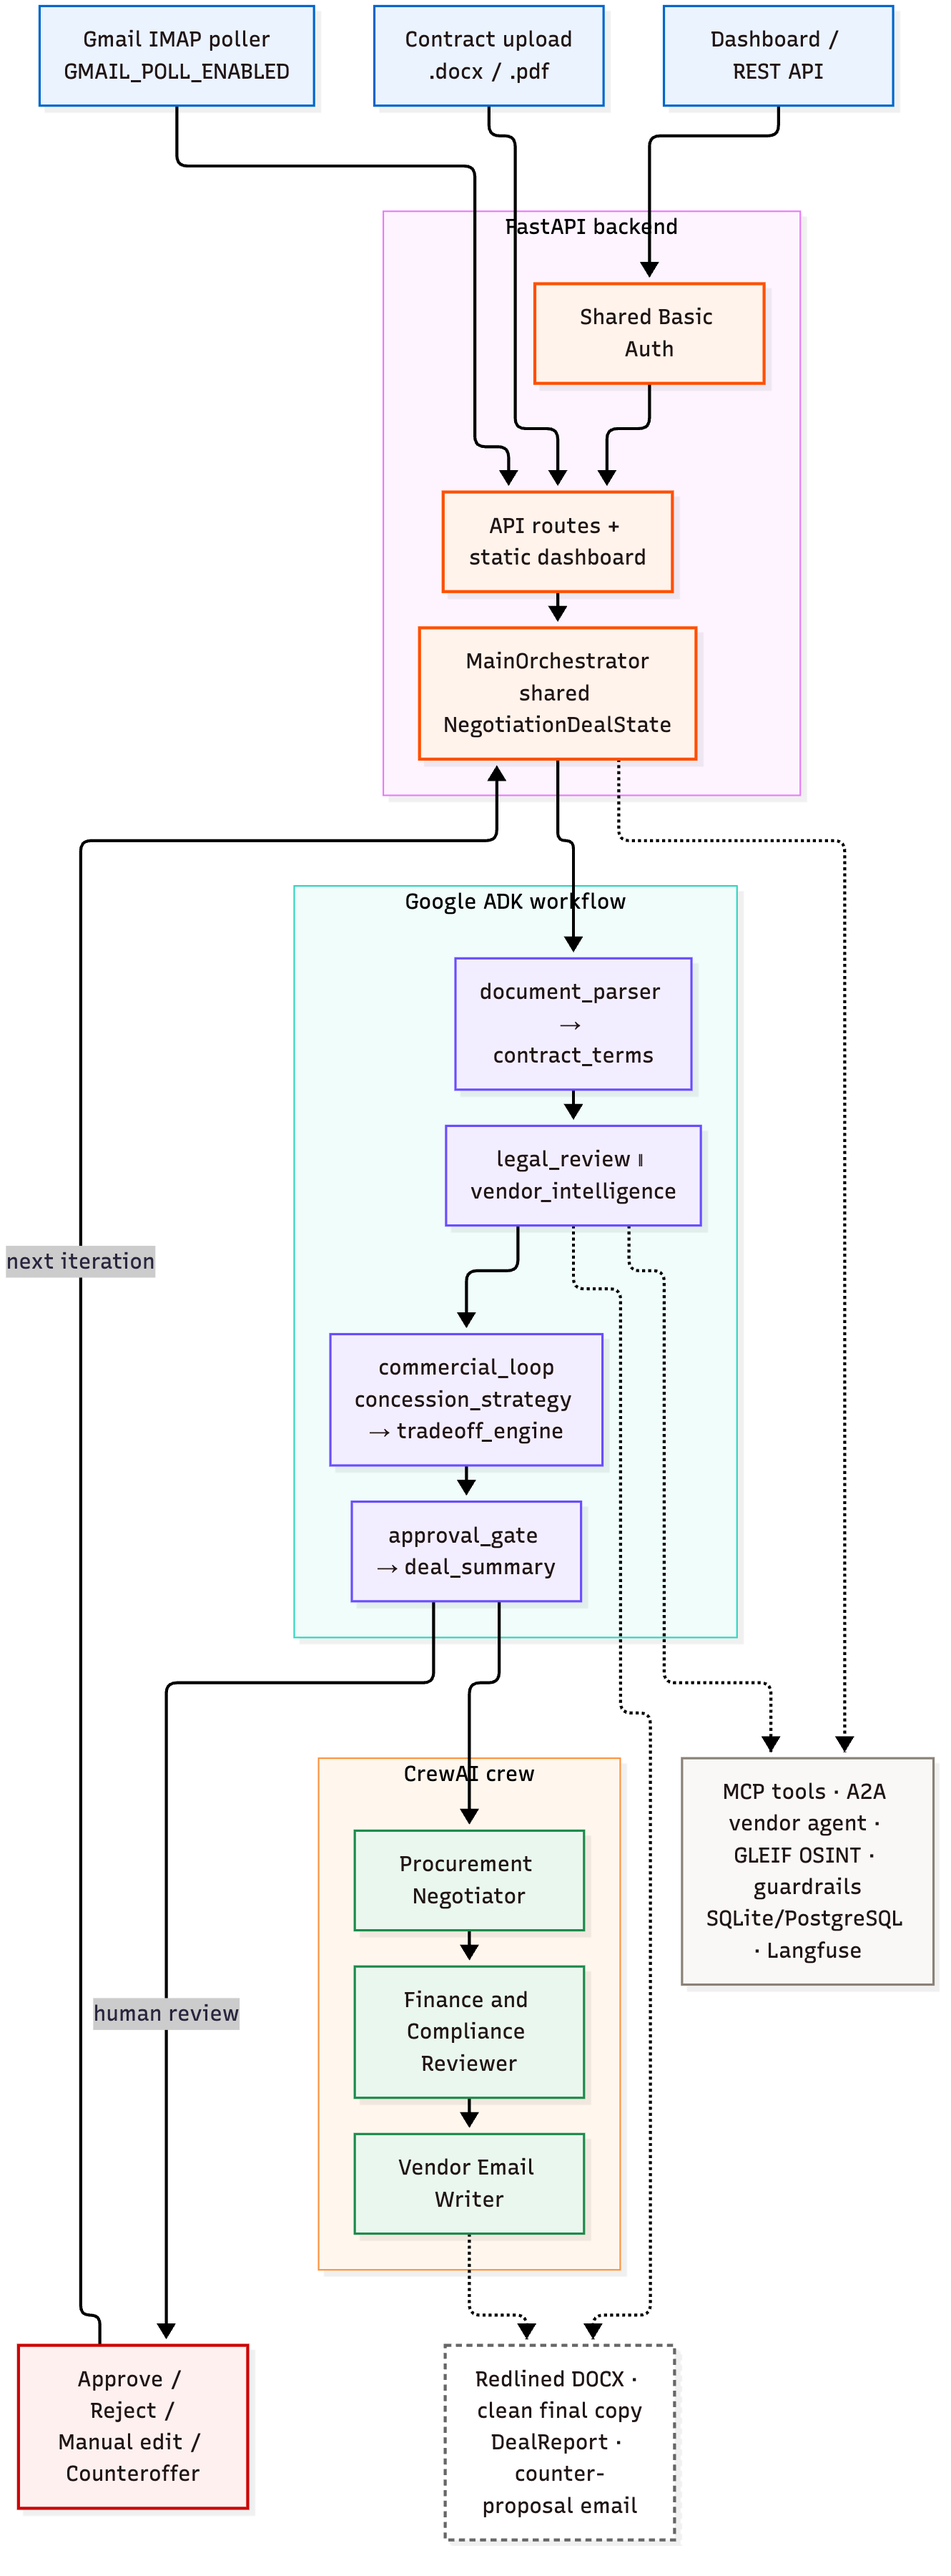
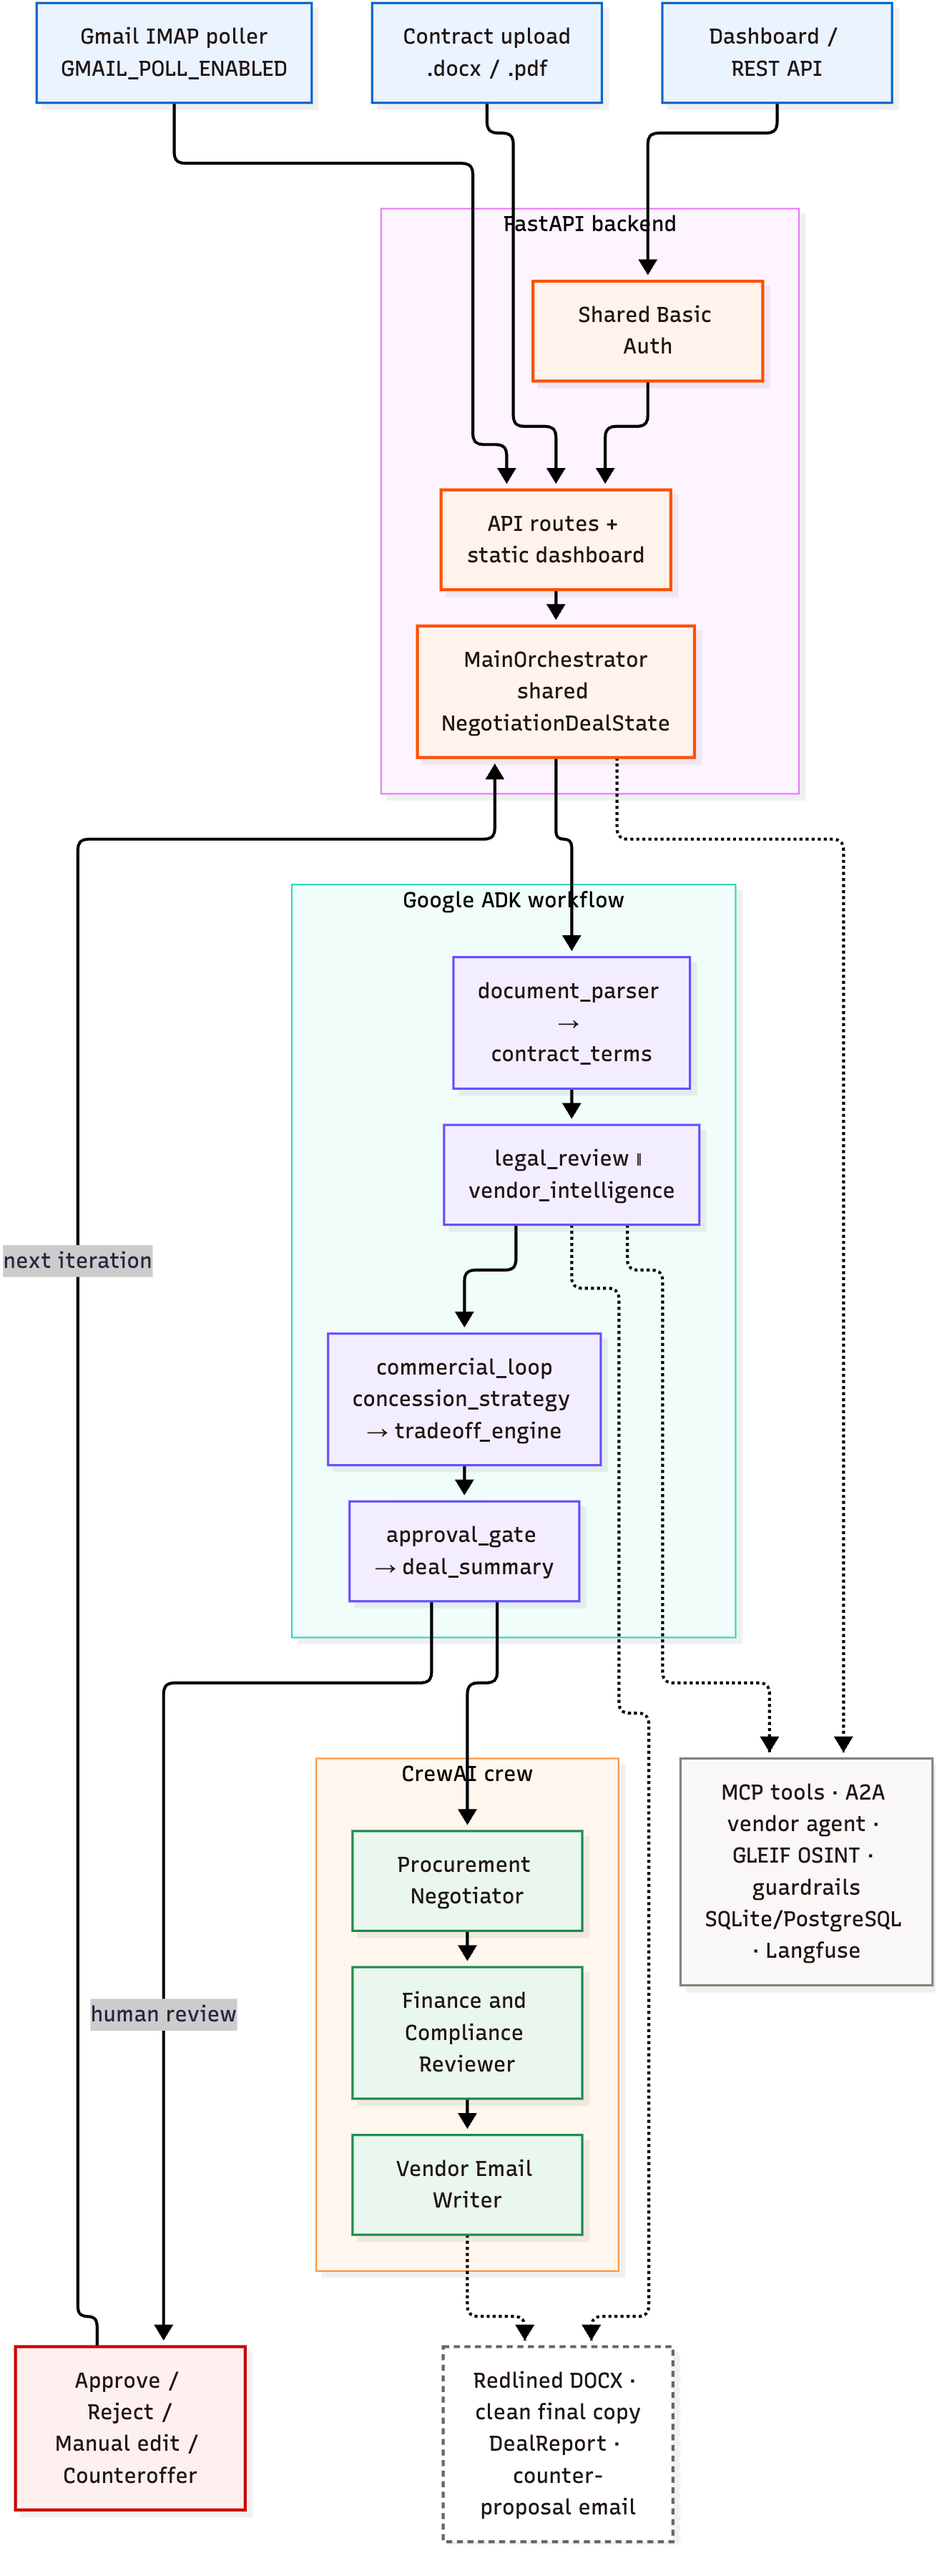
docs: tighten vertical spacing in diagrams

diff --git a/README.md b/README.md
@@ -305,7 +305,7 @@ service use their own tokens.
 The RedLiner architecture strictly follows Section 5 of the project synopsis (`AG_AI_Project_Synopsis_Grp_8.pdf`):
 
 ```mermaid
-%%{init: {"flowchart": {"nodeSpacing": 18, "rankSpacing": 14, "diagramPadding": 4, "curve": "basis"}}}%%
+%%{init: {"flowchart": {"nodeSpacing": 14, "rankSpacing": 6, "diagramPadding": 2, "curve": "basis"}}}%%
 flowchart TD
     classDef entry fill:#EBF3FF,stroke:#0066CC,stroke-width:1.5px,color:#201515;
     classDef app fill:#FFF3EB,stroke:#FF4F00,stroke-width:2px,color:#201515;

diff --git a/deploy/aws/README.md b/deploy/aws/README.md
@@ -7,7 +7,7 @@ tiers, so there is no database or observability process on the VM.
 ## Deployment topology
 
 ```mermaid
-%%{init: {"flowchart": {"nodeSpacing": 18, "rankSpacing": 14, "diagramPadding": 4, "curve": "basis"}}}%%
+%%{init: {"flowchart": {"nodeSpacing": 14, "rankSpacing": 6, "diagramPadding": 2, "curve": "basis"}}}%%
 flowchart TD
     classDef user fill:#EBF3FF,stroke:#0066CC,stroke-width:1.5px,color:#201515;
     classDef aws fill:#FFF3EB,stroke:#FF4F00,stroke-width:2px,color:#201515;

diff --git a/docs/MILESTONE_40.md b/docs/MILESTONE_40.md
@@ -15,7 +15,7 @@ the grading rubric: **CrewAI** and **Google ADK**.
 The runtime graph is:
 
 ```mermaid
-%%{init: {"flowchart": {"nodeSpacing": 18, "rankSpacing": 14, "diagramPadding": 4, "curve": "basis"}}}%%
+%%{init: {"flowchart": {"nodeSpacing": 14, "rankSpacing": 6, "diagramPadding": 2, "curve": "basis"}}}%%
 flowchart TD
     classDef facade fill:#FFF3EB,stroke:#FF4F00,stroke-width:2px,color:#201515;
     classDef adk fill:#F3EEFF,stroke:#6B4EFF,stroke-width:1.5px,color:#201515;
